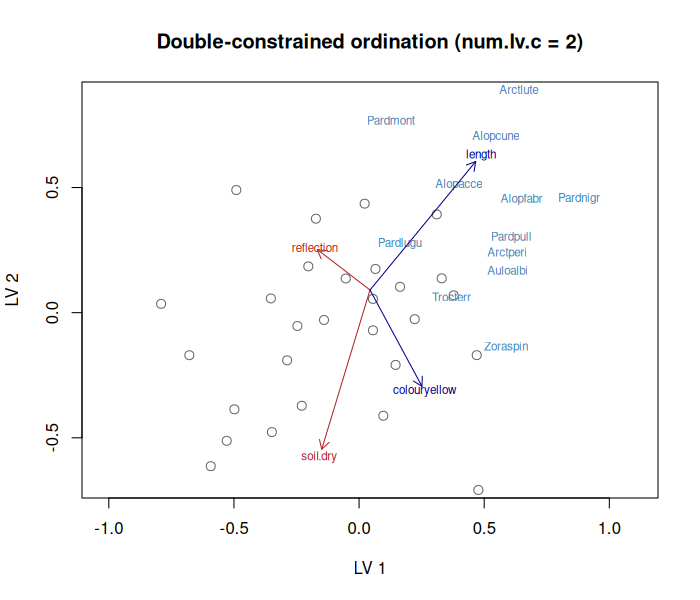
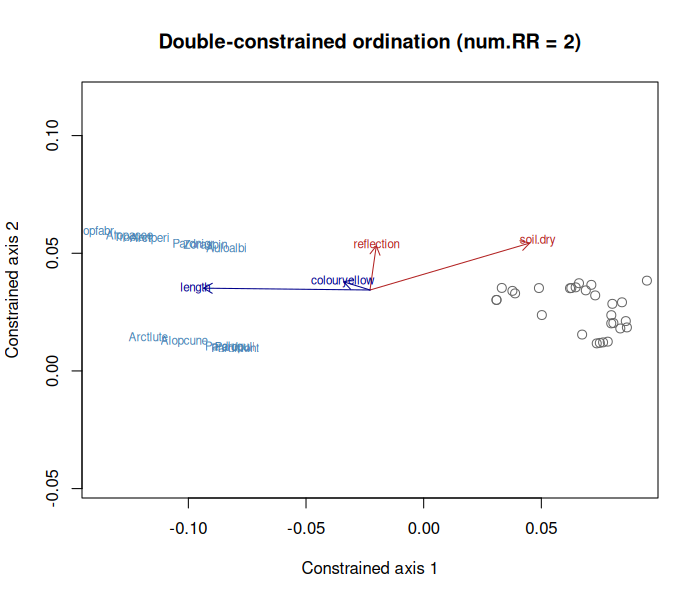
Fix README: num.RR=2 is double-constrained, num.lv.c=2 is hierarchical ordination

diff --git a/README.md b/README.md
@@ -50,13 +50,13 @@ Three dimension types can be combined freely:
 | Argument | Dimensions | Description |
 |---|---|---|
 | `num.lv` | unconstrained | Pure residual latent variables (standard GLLVM) |
-| `num.lv.c` | VA-constrained | Prior mean of $z_i$ follows $\mathbf{x}_i$; prior mean of $\gamma_j$ follows $\mathbf{t}_j$ |
-| `num.RR` | RR-constrained | Deterministic scores $z_i = \mathbf{B}_z^\top \mathbf{x}_i$ |
+| `num.lv.c` | VA-constrained | $z_i \sim \mathcal{N}(\mathbf{B}_z^\top \mathbf{x}_i, \mathbf{I})$, $\gamma_j \sim \mathcal{N}(\mathbf{B}_\gamma^\top \mathbf{t}_j, \mathbf{I})$ — **hierarchical ordination** |
+| `num.RR` | RR-constrained | Deterministic scores $z_i = \mathbf{B}_z^\top \mathbf{x}_i$, $\gamma_j = \mathbf{B}_\gamma^\top \mathbf{t}_j$ — **double-constrained ordination** |
 
 ## Double-constrained ordination
 
-Both environmental covariates and species traits constrain the ordination simultaneously.
-Site scores follow the environmental gradient; species loadings follow the trait gradient.
+`num.RR` fixes site scores and species loadings as deterministic linear combinations of
+covariates and traits respectively — a reduced-rank regression with both sides constrained.
 
 ```r
 library(gllvm)
@@ -66,10 +66,10 @@ mod_dc <- gllvm(
   spider$abund,
   X  = spider$x,
   TR = spider$trait,
-  lv.formula   = ~soil.dry + reflection,   # constrains site scores
-  load.formula = ~length + colour,          # constrains species loadings
+  lv.formula   = ~soil.dry + reflection,   # site scores = B_z^T x_i
+  load.formula = ~length + colour,          # species loadings = B_gamma^T t_j
   family = "poisson",
-  num.lv.c = 2,
+  num.RR = 2,
   random.loadings = TRUE
 )
 
@@ -78,14 +78,15 @@ ordiplot(mod_dc, biplot = TRUE)
 
 ![Double-constrained ordination plot](man/figures/ho_dc_ordiplot.png)
 
-Red arrows show the environmental gradients (coefficients $\mathbf{B}_z$); blue arrows show the
-trait gradients (coefficients $\mathbf{B}_\gamma$). Species labels (in blue) indicate their
-position in the ordination.
+Red arrows show the environmental gradients ($\mathbf{B}_z$); blue arrows show the trait
+gradients ($\mathbf{B}_\gamma$). Species labels indicate their position in loading space.
 
-## Full hierarchical ordination
+## Hierarchical ordination
 
-Adds residual unconstrained dimensions on top of the constrained axes, capturing variation not
-explained by the measured predictors.
+`num.lv.c` treats site scores and species loadings as random, with prior means driven by
+covariates and traits. This is the full hierarchical ordination model: the bilinear term
+$z_i^\top \Sigma \gamma_j$ links environment to species through shared latent axes, while
+residual variation in $z_i$ and $\gamma_j$ captures unexplained structure.
 
 ```r
 mod_ho <- gllvm(
@@ -95,27 +96,27 @@ mod_ho <- gllvm(
   lv.formula   = ~soil.dry + reflection,
   load.formula = ~length + colour,
   family = "poisson",
-  num.lv.c = 2,   # constrained axes (environment + traits)
-  num.lv   = 1,   # residual unconstrained axis
+  num.lv.c = 2,
   random.loadings = TRUE
 )
 
-# Plot the constrained axes (type = "conditional" shows all dims)
 ordiplot(mod_ho, biplot = TRUE)
 ```
 
-![Full hierarchical ordination plot](man/figures/ho_full_ordiplot.png)
+![Hierarchical ordination plot](man/figures/ho_full_ordiplot.png)
+
+Residual unconstrained dimensions can be added alongside: `num.lv.c = 2, num.lv = 1`.
 
 ## Specifying models
 
 | Goal | Arguments |
 |---|---|
 | Unconstrained ordination | `num.lv = 2, random.loadings = TRUE` |
-| Environment constrains sites | `num.lv.c = 2, lv.formula = ~x1 + x2` |
-| Traits constrain species | `num.lv.c = 2, load.formula = ~t1 + t2` |
-| Both (double-constrained) | `num.lv.c = 2, lv.formula = ~x1, load.formula = ~t1` |
-| Deterministic RR scores | `num.RR = 2` |
-| Mixed constrained + residual | `num.lv.c = 2, num.lv = 1, lv.formula = ~x1` |
+| Hierarchical ordination (env + traits) | `num.lv.c = 2, lv.formula = ~x1, load.formula = ~t1` |
+| Hierarchical + residual axes | `num.lv.c = 2, num.lv = 1, lv.formula = ~x1, load.formula = ~t1` |
+| Double-constrained ordination | `num.RR = 2, lv.formula = ~x1, load.formula = ~t1` |
+| Environment only (no traits) | `num.lv.c = 2, lv.formula = ~x1` |
+| Traits only (no env) | `num.lv.c = 2, load.formula = ~t1` |
 
 When `X` and/or `TR` are provided without a formula and `num.lv.c > 0` or `num.RR > 0`,
 all columns of `X` are used as canonical covariates and all columns of `TR` as trait
